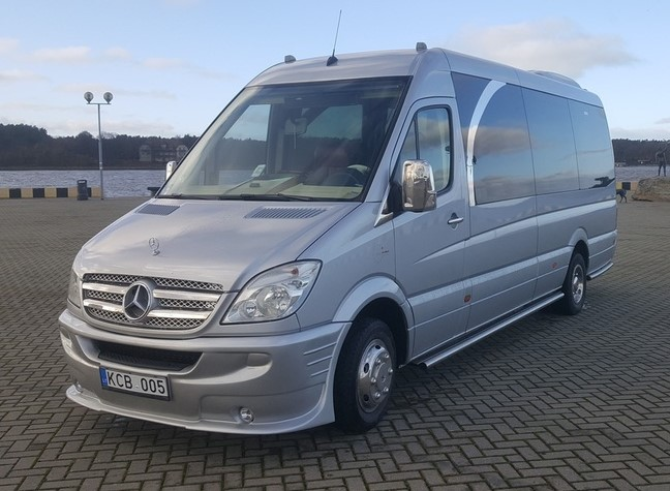
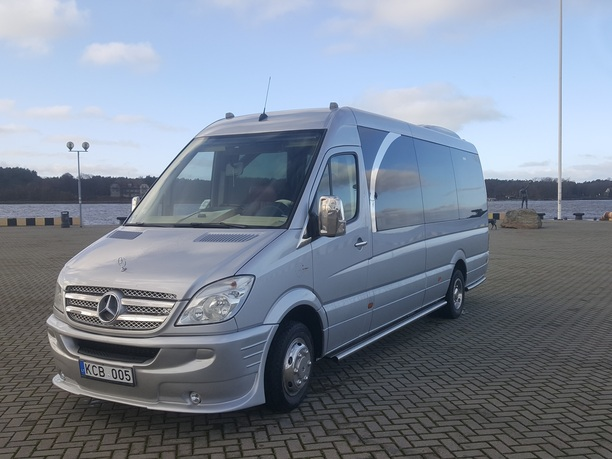
slider finished

diff --git a/index.html b/index.html
@@ -34,13 +34,34 @@
          <div class="js-slider slider">
             <ul class="js-slider slider-items">
                <li class="js-slider slider__photo-item">
-                  <img src="/img/20171117_110725.jpg" alt="microbus mercedes">
+                  <img src="\img\20210502_125808.jpg" alt="bus from right">
                </li>
                <li class="js-slider slider__photo-item">
-                  <img src="/img/20171117_114006.jpg" alt="microbus mercedes from left">
+                  <img src="\img\20210501_170214.jpg" alt="bus from front">
                </li>
                <li class="js-slider slider__photo-item">
-                  <img src="/img/20171117_110942.jpg" alt="microbus mercedes inside">
+                  <img src="\img\20210504_213456.jpg" alt="bus from left">
+               </li>
+               <li class="js-slider slider__photo-item">
+                  <img src="\img\20171117_110725.jpg" alt="microbus mercedes">
+               </li>
+               <li class="js-slider slider__photo-item">
+                  <img src="\img\20171117_114006.jpg" alt="microbus mercedes from left">
+               </li>
+               <li class="js-slider slider__photo-item">
+                  <img src="\img\20171117_110942.jpg" alt="microbus mercedes inside">
+               </li>
+               <li class="js-slider slider__photo-item">
+                  <img src="\img\20160425_144828.jpg" alt="microbus mercedes">
+               </li>
+               <li class="js-slider slider__photo-item">
+                  <img src="\img\20191214_150351.jpg" alt="bus on teh street front">
+               </li>
+               <li class="js-slider slider__photo-item">
+                  <img src="\img\20200828_141827.jpg" alt="bus inside">
+               </li>
+               <li class="js-slider slider__photo-item">
+                  <img src="\img\20210501_151716.jpg" alt="bus inside">
                </li>
             </ul>
             <!-- Next and previous buttons -->
@@ -75,7 +96,7 @@
       </div>
    </section>
    <div class="our-partners">
-      <h2>Mūsų partnėriai</h2>
+      <h2>Mūsų partneriai</h2>
       <div class="partners">
          <a href="https://www.meja.lt/" class="partners__item" base target="_blank"><img
                src="img\Klaipeda_meja_travel.png" alt="Logo for Klaipeda_meja_travel"></a>
@@ -101,7 +122,7 @@
             <p>UAB Translimitas Kelyje</p>
             <p>Juridinis adresas: Saulės g. 7-1, Kalotės k., LT-92284 Klaipėdos r.</p>
             <p>Keleivių vežimo licenzijos nr.: LIC-002285-EBKL</p>
-            <p>Europos bendrijos licenzijos nr.: LIC-002285-EBKL</p>
+            <p>Europos bendrijos licenzijos nr.: LIC-002710-EBKL</p>
          </div>
       </div>
    </footer>

diff --git a/css/style.css b/css/style.css
@@ -45,13 +45,12 @@ h1, h2 {
    list-style: none;
  }
  
- .slider-item-photo {
+ .slider__photo-item {
    position: relative;
    display: block;
    float: left;
    margin: 0;
    padding: 0;
-   width: 500px;
     
  }
  
@@ -66,13 +65,16 @@ h1, h2 {
    text-decoration: none;
    font-weight: 600;
    font-size: 18px;
-   opacity: 0.8;
-   cursor: pointer;
  }
- 
- a.control_next {
-   right: 0;
- }
+  a.control_next {
+  right: -1px;
+}
+[dir='rtl'] .next
+{
+    right: auto;
+    left: -1px;
+}
+
  .partners__item_lass img{
    background-color: black;
    width:20%;
